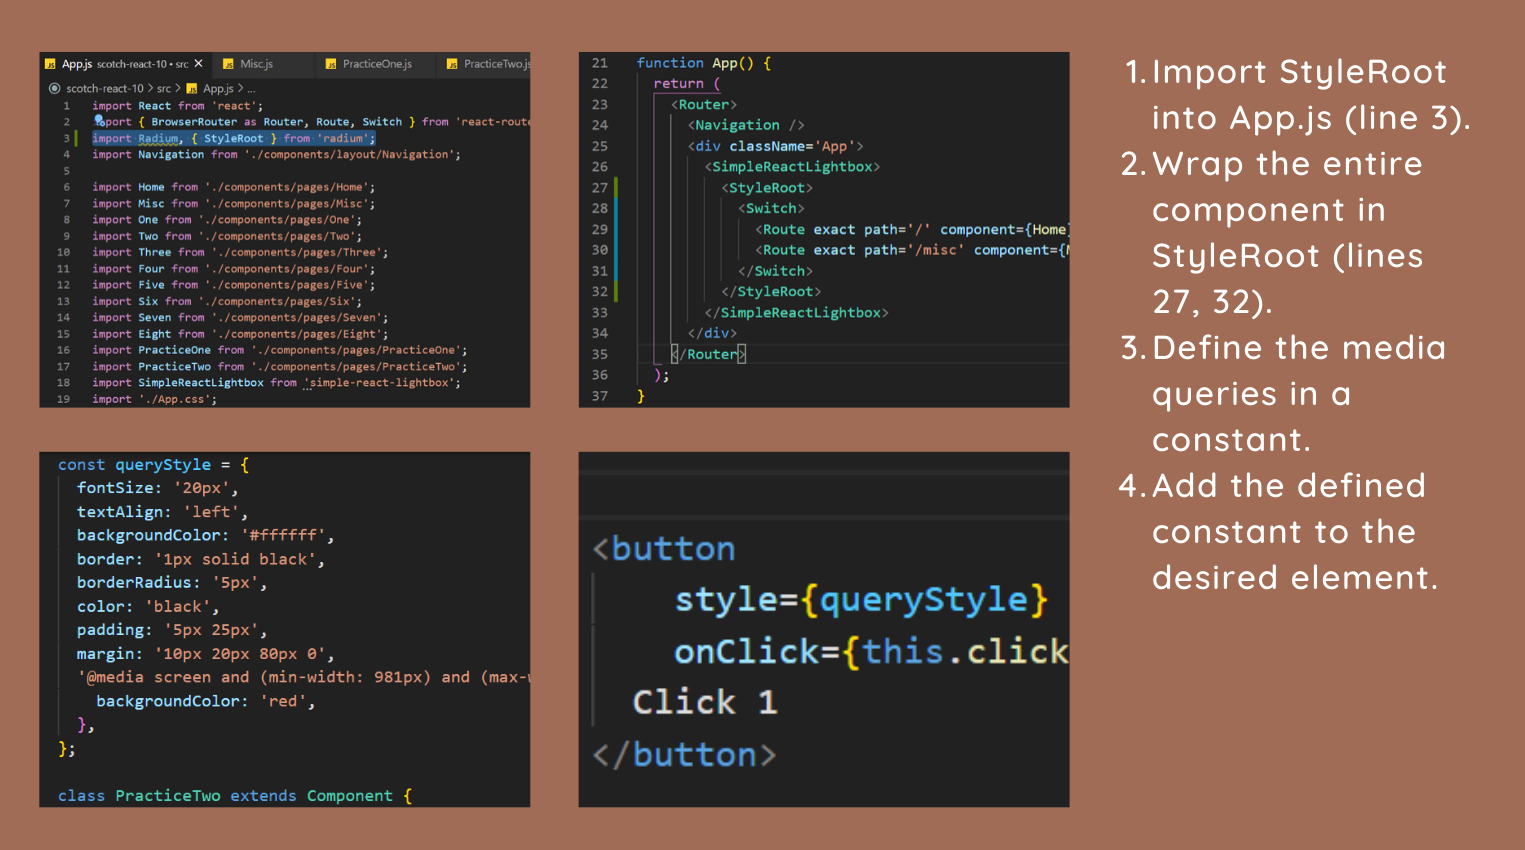
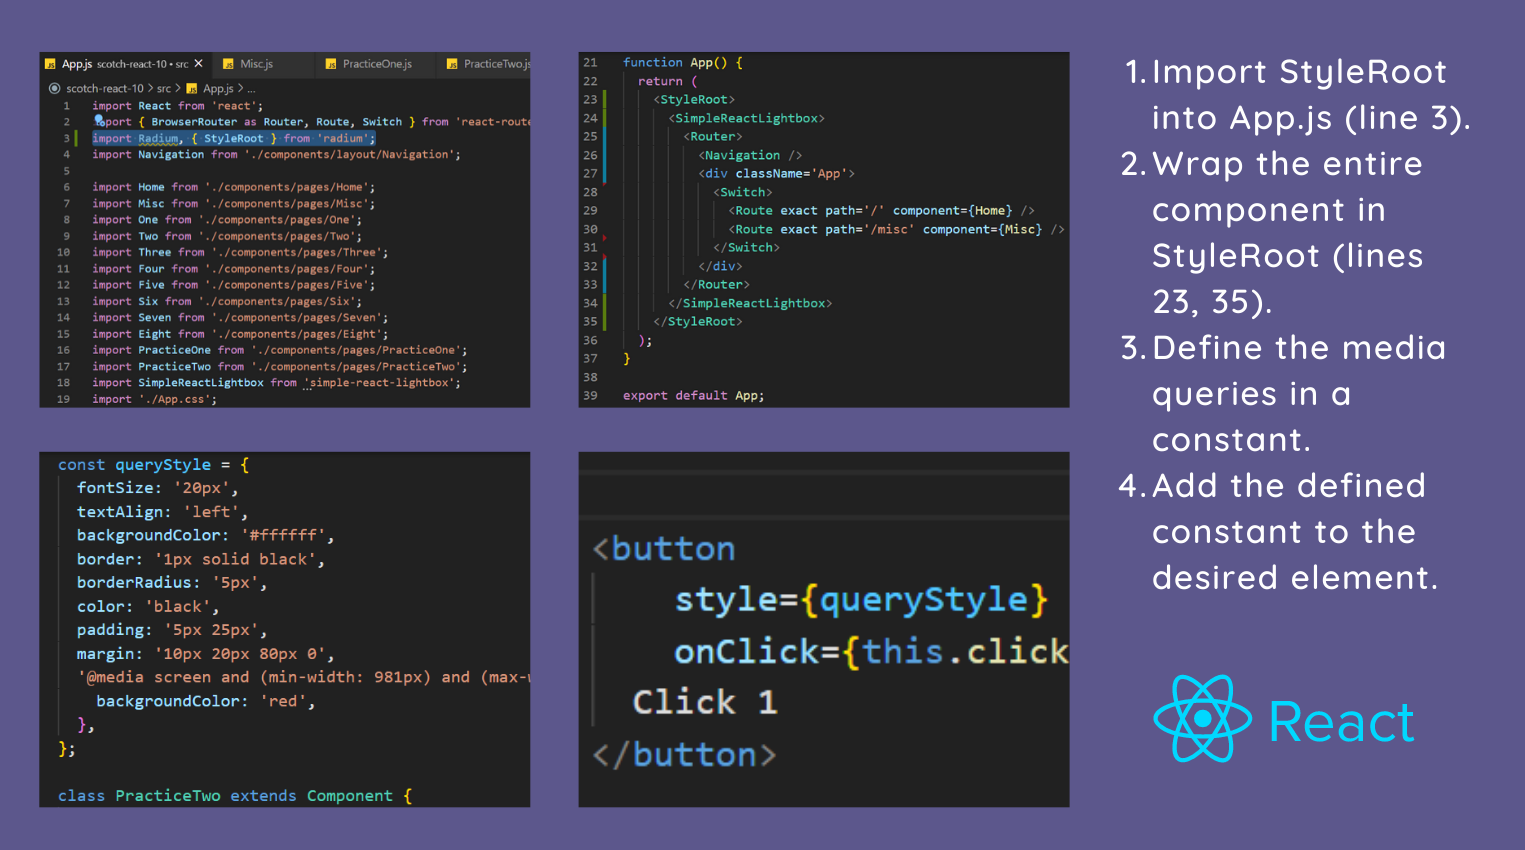
updated StyleRoot image

diff --git a/src/App.js b/src/App.js
@@ -20,11 +20,11 @@ import './App.css';
 
 function App() {
   return (
-    <Router>
-      <Navigation />
-      <div className='App'>
-        <SimpleReactLightbox>
-          <StyleRoot>
+    <StyleRoot>
+      <SimpleReactLightbox>
+        <Router>
+          <Navigation />
+          <div className='App'>
             <Switch>
               <Route exact path='/' component={Home} />
               <Route exact path='/misc' component={Misc} />
@@ -67,10 +67,10 @@ function App() {
                 component={PracticeTwo}
               />
             </Switch>
-          </StyleRoot>
-        </SimpleReactLightbox>
-      </div>
-    </Router>
+          </div>
+        </Router>
+      </SimpleReactLightbox>
+    </StyleRoot>
   );
 }
 

diff --git a/src/components/pages/PracticeTwo.js b/src/components/pages/PracticeTwo.js
@@ -1,11 +1,12 @@
 import React, { Component } from 'react';
-import { Container, Row, Col, Image } from 'react-bootstrap';
+import { Container, Row, Col } from 'react-bootstrap';
 import Swal from 'sweetalert2';
 import { SRLWrapper } from 'simple-react-lightbox';
 import error1 from '../../img/error1.png';
 import error2 from '../../img/error2.png';
 import mediaQuery from '../../img/media-query.png';
 import styleRoot from '../../img/style-root.png';
+
 // We also need to export Radium down below in the 'export default' (see below).
 import Radium from 'radium';
 import '../styles/PracticeTwo.css';
